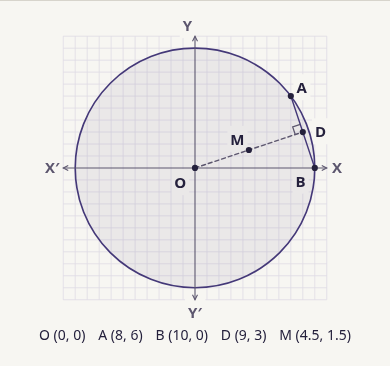
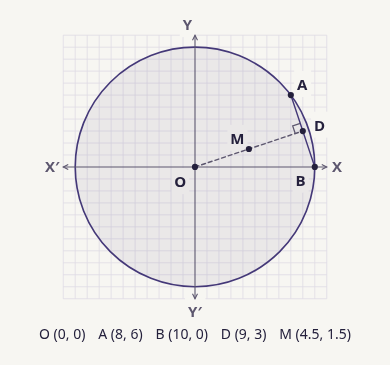
Keep coordinate labels associated with their intended point

diff --git a/site/assets/diagramguard.js b/site/assets/diagramguard.js
@@ -167,7 +167,7 @@
     svg.append(fragment);
     const shapes=obstacles(svg,false), boundary=figureBounds(svg), placed=[];
     const origins=placements.map(({label})=>labelBounds(label));
-    for(const [index,{label,anchor,direction,candidates,optional}] of placements.entries()){
+    for(const [index,{label,anchor,direction,candidates,optional,neighborPoints}] of placements.entries()){
       const origin=origins[index];
       if(!origin)continue;
       const font=parseFloat(getComputedStyle(label).fontSize);
@@ -181,13 +181,17 @@
         const quad=origin.quad.map(([px,py])=>[px+dx,py+dy]);
         const box={...origin,quad,box:sizes(quad)};
         const count=collisions(box,boundary,shapes,placed,gap).length;
-        if(!best||count<best.count)best={x,y,count,box};
-        if(count===0)break;
+        const position=[anchor[0]+x,anchor[1]+y];
+        const nearNeighbor=neighborPoints?.some(point=>distance(position,point)+epsilon<Math.hypot(x,y));
+        // Among equally clear placements, keep the label nearest to its own point.
+        const rank=count*2+Number(!!nearNeighbor);
+        if(!best||rank<best.rank)best={position,count,rank,box};
+        if(rank===0)break;
       }
       if(!best)continue;
       // A reference tick may keep its mark without repeating a number.
       if(optional&&best.count){label.remove();continue;}
-      placed.push({...best.box,label,position:[anchor[0]+best.x,anchor[1]+best.y]});
+      placed.push({...best.box,label,position:best.position});
     }
     for(const {label,position:[x,y]} of placed){
       label.setAttribute('x',x);

diff --git a/site/assets/diagramguard-coordinate-plot.js b/site/assets/diagramguard-coordinate-plot.js
@@ -56,7 +56,7 @@
   }
 
   function draw(svg, config, width, rem) {
-    const {points,outlines=[],segments=[],guides=[],circle,rightAngle,directions={},edgeDirections={},insideLabels='',
+    const {points,outlines=[],segments=[],guides=[],circle,rightAngle,directions={},edgeDirections={},insideLabels='',associateLabels='',
       axes=true,showOrigin=true,fullAxes=false,compactAxes=false,quadrants=false,projections=false,pointNames=true}=config;
     const xy = Object.values(points);
     const xs = xy.map(([x])=>x);
@@ -192,7 +192,8 @@
         placements.push({label,anchor,candidates});
       } else {
         const direction = (edgeLabels && edgeDirections[id]) || directions[id] || [cx-center[0],cy-center[1]];
-        placements.push({label,anchor,direction});
+        const neighborPoints = associateLabels.includes(id) ? Object.values(projected).filter(point=>point!==anchor) : undefined;
+        placements.push({label,anchor,direction,neighborPoints});
       }
     }
 

diff --git a/site/assets/g9-ch5-coordinate-figures.js b/site/assets/g9-ch5-coordinate-figures.js
@@ -50,15 +50,15 @@
     ],
     q11:{
       points:{C:[11,2],P:[1,2],Q:[3,-4],R:[5,-6]},circle:[[11,2],10],guides:['CP','CQ','CR'],
-      fullAxes:true,compactAxes:true,showOrigin:false,
+      fullAxes:true,compactAxes:true,showOrigin:false,associateLabels:'PQ',
       directions:{P:labelDirections,Q:labelDirections,R:[.2,1]}
     }
   });
   window.TriggleCoordinateFigures.register('g9-ch5-ex5.3-',{
     q5:{
       points:{O:[0,0],A:[8,6],B:[10,0],D:[9,3],M:[4.5,1.5]},
-      circle:[[0,0],10],segments:['AB'],guides:['OD'],rightAngle:'ADO',fullAxes:true,showOrigin:false,
-      directions:{B:[0,1],D:[1,.33],M:[0,-1],O:[-1,1]}
+      circle:[[0,0],10],segments:['AB'],guides:['OD'],rightAngle:'ADO',fullAxes:true,showOrigin:false,associateLabels:'DM',
+      directions:{A:[0,-1],B:[0,1],D:[1,0],M:labelDirections,O:[-1,1]}
     }
   });
   const diameterMidpoint = [1.5,3.5];
